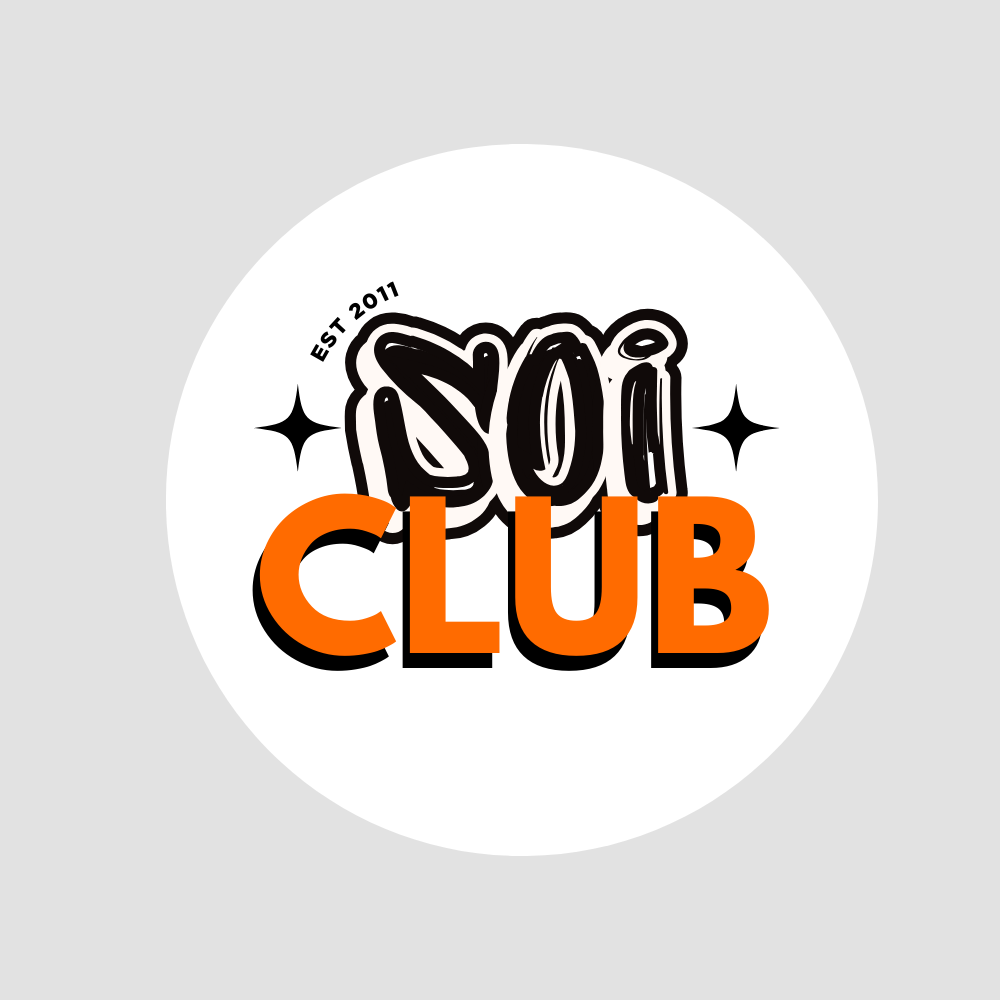
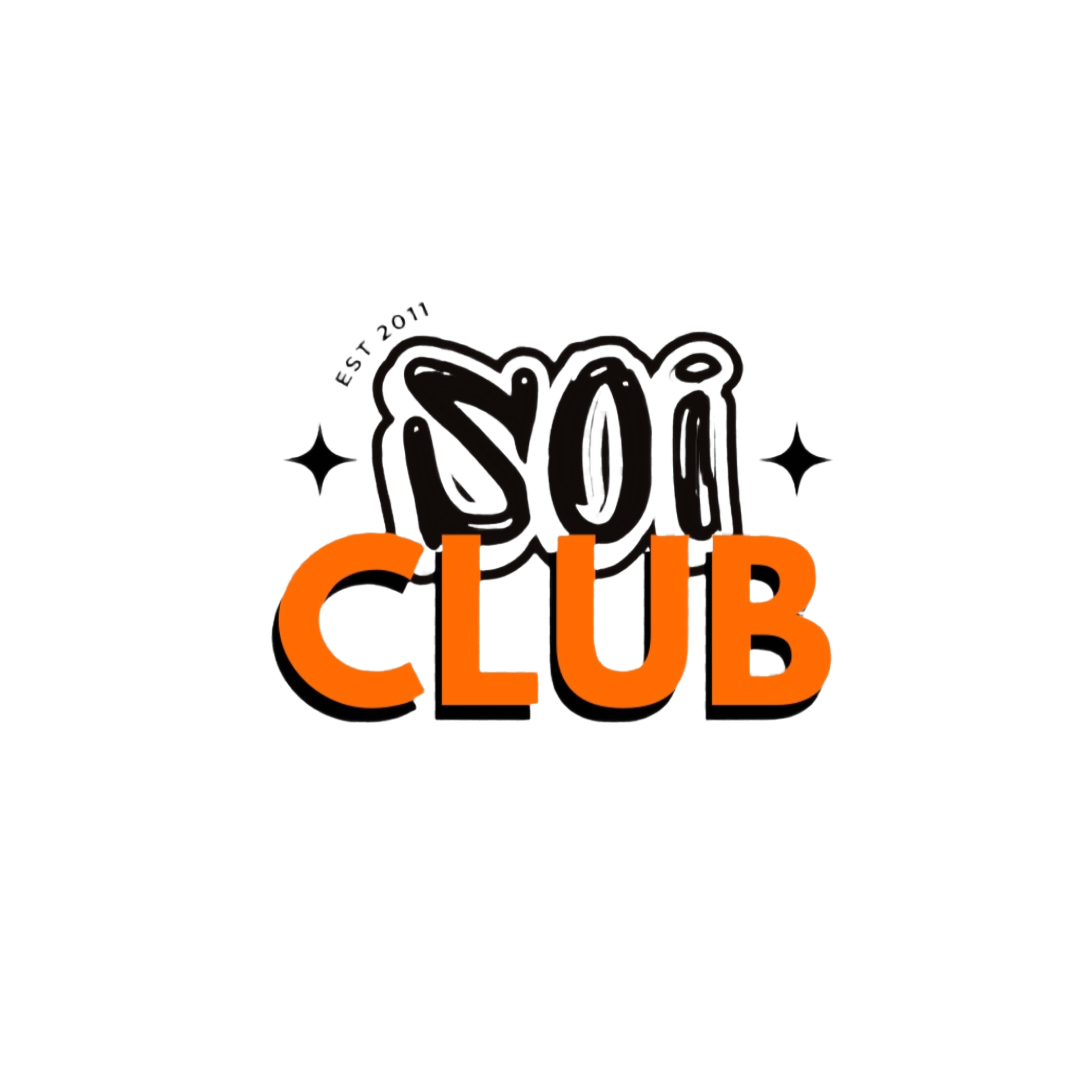
updated SOI_Club.png

diff --git a/app/page.js b/app/page.js
@@ -714,9 +714,9 @@ export default function Page() {
                       <Image 
                         src="/partners/SOI_Club.png" 
                         alt="SOI Club"
-                        width={160}
-                        height={80}
-                        className="max-h-20 w-auto object-contain group-hover:scale-110 transition-all duration-500 filter-none isolation-isolate"
+                        width={320}
+                        height={160}
+                        className="max-h-40 w-auto object-contain group-hover:scale-110 transition-all duration-500 filter-none isolation-isolate"
                         style={{ filter: 'none !important', isolation: 'isolate' }}
                       />
                     </div>
